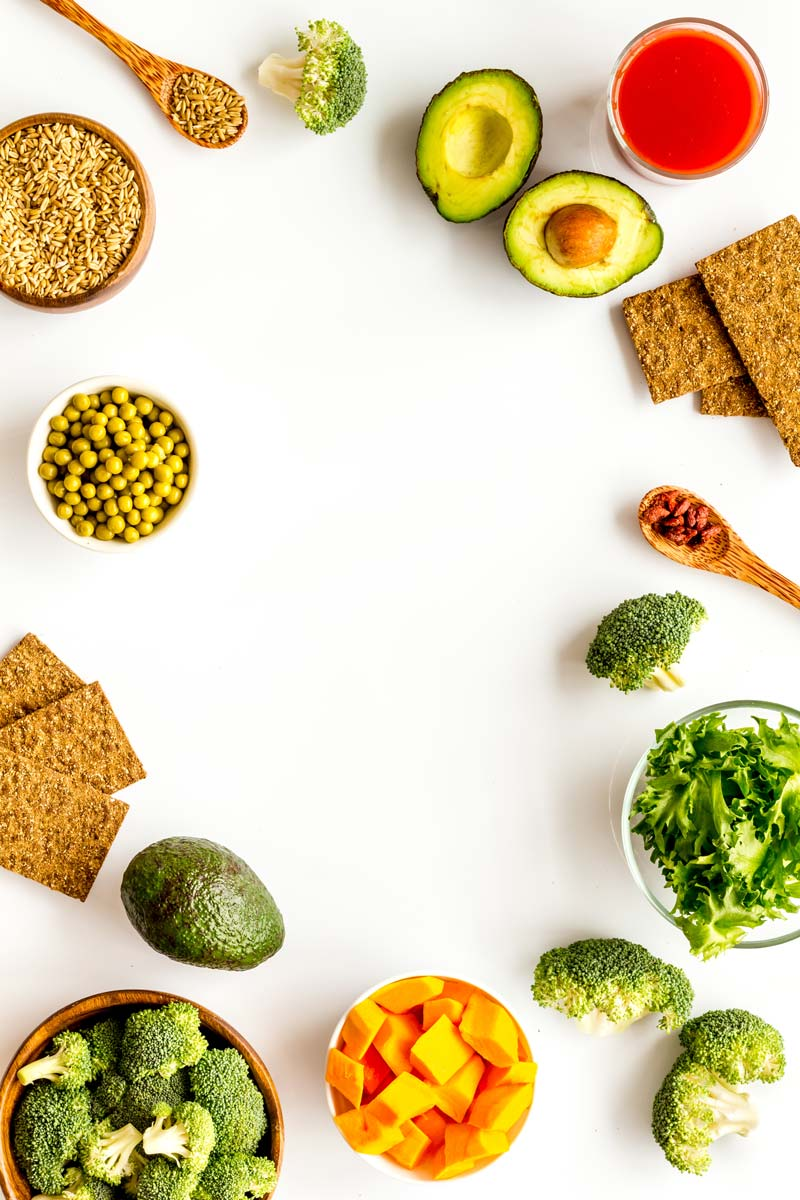
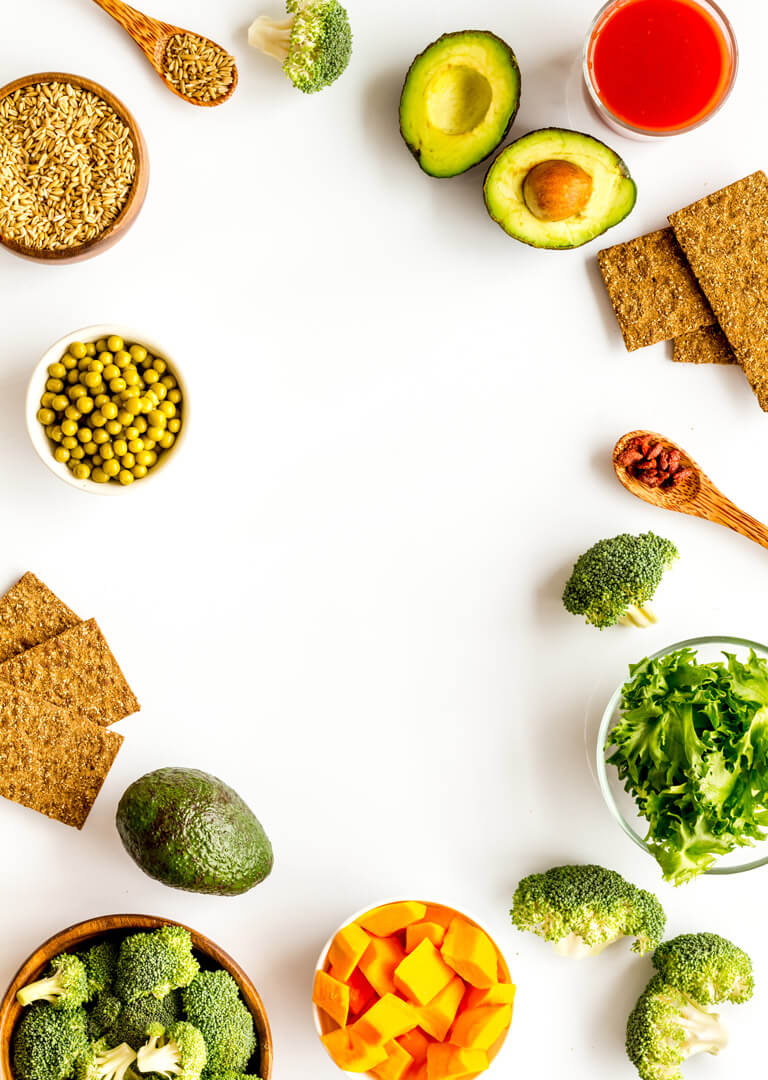
update img compress

diff --git a/index.html b/index.html
@@ -58,12 +58,11 @@
         </div>
     </section>
 
-    <section class="home-recipe-section">
+    <!-- <section class="home-recipe-section">
         <h1>Add-On Recipes</h1>
         <div class="divider-line"></div>
         <div class="home-recipe-grid">
 
-            <!-- Meat Recipe -->
             <a class="home-recipe recipe-meat" id="A1" href="./recipe.html#A1">
                 <div class="home-recipe-image">
                     <div class="home-recipe-image-cover"></div>
@@ -72,7 +71,7 @@
             </a>
 
         </div>
-    </section>
+    </section> -->
 
 
     <section class="about-section" id="about">

diff --git a/assets/js/recipes.js b/assets/js/recipes.js
@@ -40,7 +40,7 @@ if (window.location.pathname == "/index.html" || window.location.pathname == "/"
                 );
 
                 // Change Image
-                $(`#${recipeNo} > .home-recipe-image `).css("background-image", `url("./assets/images/recipes/${recipeType}/${recipeNo}/1.jpg")`);
+                $(`#${recipeNo} > .home-recipe-image `).css("background-image", `url("./assets/images/recipes/${recipeType}/${recipeNo}/t1.jpg")`);
             }
 
 
